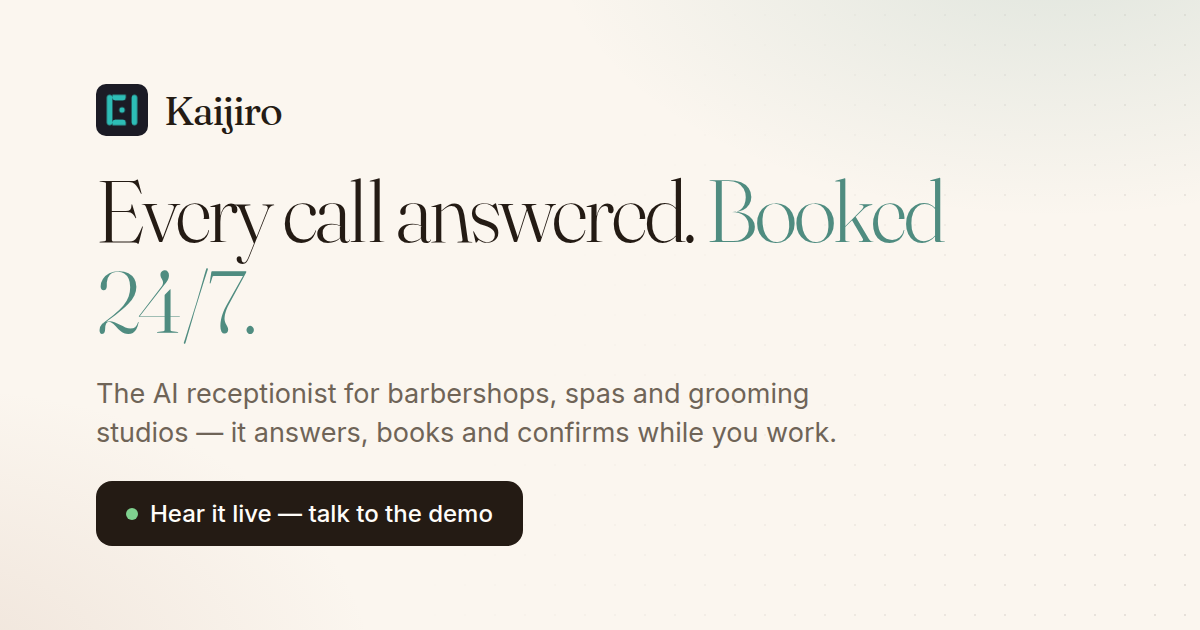
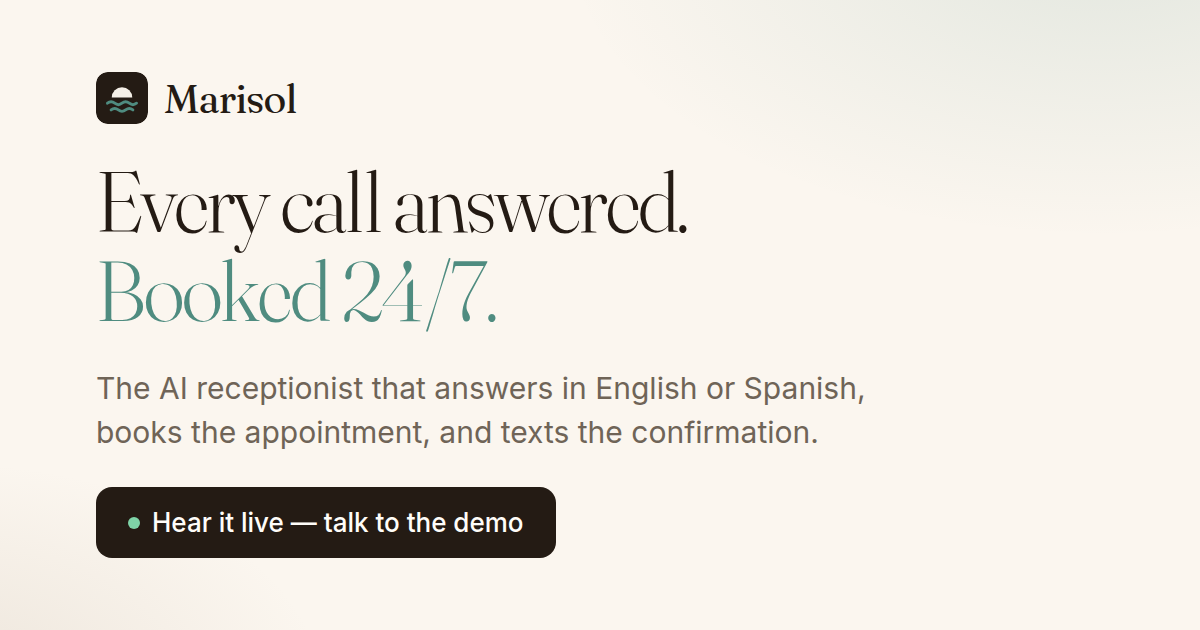
feat: rebrand landing to Marisol + callmarisol.com custom domain (#17)

diff --git a/app/terms/page.tsx b/app/terms/page.tsx
@@ -2,21 +2,21 @@ import { LegalShell } from "@/components/LegalShell";
 import { SALES_EMAIL } from "@/lib/site";
 
 export const metadata = {
-  title: "Terms of Service — Kaijiro",
-  description: "The terms that govern your Kaijiro subscription.",
+  title: "Terms of Service — Marisol",
+  description: "The terms that govern your Marisol subscription.",
 };
 
 export default function TermsPage() {
   return (
     <LegalShell title="Terms of Service" updated="July 3, 2026">
       <p>
-        These terms govern your use of the Kaijiro AI receptionist service provided by Kaijiro-labs
-        ("Kaijiro", "we"). By subscribing, you agree to them.
+        These terms govern your use of the Marisol AI receptionist service provided by Kaijiro Labs
+        ("Marisol", "we"). By subscribing, you agree to them.
       </p>
 
       <h2>The service</h2>
       <p>
-        Kaijiro answers your business phone line with a conversational AI receptionist that can take
+        Marisol answers your business phone line with a conversational AI receptionist that can take
         bookings, answer questions and hand off to a human when needed. We set the service up for
         you based on the details you provide during onboarding, and you stay responsible for keeping
         those details accurate.
@@ -24,14 +24,14 @@ export default function TermsPage() {
 
       <h2>Billing</h2>
       <p>
-        Kaijiro is a subscription billed through Stripe, monthly or annually depending on the plan
+        Marisol is a subscription billed through Stripe, monthly or annually depending on the plan
         you choose at checkout. Prices are shown on the pricing page before you pay. Subscriptions
         renew automatically until cancelled.
       </p>
 
       <h2>14-day money-back guarantee</h2>
       <p>
-        If Kaijiro is not right for you, tell us within 14 days of your first payment and we will
+        If Marisol is not right for you, tell us within 14 days of your first payment and we will
         refund it in full — no questions asked. Email{" "}
         <a href={`mailto:${SALES_EMAIL}`} className="text-teal">
           {SALES_EMAIL}

diff --git a/components/sections/Footer.tsx b/components/sections/Footer.tsx
@@ -8,11 +8,12 @@ export function Footer() {
         <div className="max-w-[34ch]">
           <div className="mb-[10px] flex items-center gap-[7px] font-display text-xl tracking-[-0.03em] sm:text-2xl">
             <LogoMark className="h-[22px] w-[22px] rounded-[4px]" />
-            Kaijiro-labs
+            Marisol
           </div>
           <p className="m-0 text-[13.5px] leading-[1.55] text-muted-2">
             The AI front desk for barbershops, spas, salons, grooming studios and many more.
           </p>
+          <p className="m-0 mt-2 text-[12.5px] text-muted-4">a Kaijiro Labs product</p>
           <a
             href={telHref}
             className="mt-[14px] inline-block font-display text-xl tracking-[-0.02em] text-ink no-underline"
@@ -63,7 +64,7 @@ export function Footer() {
 
       <div className="border-t border-cream-200">
         <div className="mx-auto flex max-w-content flex-wrap items-center justify-between gap-[10px] px-[22px] py-[18px] text-[12.5px] text-muted-4">
-          <span>© 2026 Kaijiro-labs. All rights reserved.</span>
+          <span>© 2026 Kaijiro Labs. All rights reserved.</span>
         </div>
       </div>
     </footer>

diff --git a/app/layout.tsx b/app/layout.tsx
@@ -2,9 +2,9 @@ import { SITE_URL } from "@/lib/site";
 import type { ReactNode } from "react";
 import "./globals.css";
 
-const TITLE = "Kaijiro — AI Receptionist";
+const TITLE = "Marisol — AI Receptionist";
 const DESCRIPTION =
-  "An AI receptionist for your business that answers every call and books appointments 24/7.";
+  "An AI receptionist that answers every call in English or Spanish and books appointments 24/7.";
 
 export const metadata = {
   title: TITLE,
@@ -15,9 +15,9 @@ export default function RootLayout({ children }: { children: ReactNode }) {
   return (
     <html lang="en">
       <head>
-        <link rel="icon" href="/logo.png" type="image/png" />
+        <link rel="icon" href="/logo.svg" type="image/svg+xml" />
         <meta property="og:type" content="website" />
-        <meta property="og:site_name" content="Kaijiro" />
+        <meta property="og:site_name" content="Marisol" />
         <meta property="og:title" content={TITLE} />
         <meta property="og:description" content={DESCRIPTION} />
         <meta property="og:url" content={SITE_URL} />

diff --git a/app/privacy/page.tsx b/app/privacy/page.tsx
@@ -2,16 +2,17 @@ import { LegalShell } from "@/components/LegalShell";
 import { SALES_EMAIL } from "@/lib/site";
 
 export const metadata = {
-  title: "Privacy Policy — Kaijiro",
-  description: "How Kaijiro collects, uses and protects your data.",
+  title: "Privacy Policy — Marisol",
+  description: "How Marisol collects, uses and protects your data.",
 };
 
 export default function PrivacyPage() {
   return (
     <LegalShell title="Privacy Policy" updated="July 3, 2026">
       <p>
-        This policy explains what data Kaijiro-labs ("Kaijiro", "we") collects when you use the
-        Kaijiro website and the Kaijiro AI receptionist service, and how we handle it.
+        This policy explains what data Kaijiro Labs ("Marisol", "we") collects when you use the
+        Marisol website and the Marisol AI receptionist service, and how we handle it. Marisol is a
+        Kaijiro Labs product.
       </p>
 
       <h2>What we collect</h2>

diff --git a/lib/site.ts b/lib/site.ts
@@ -2,11 +2,11 @@ export const DEMO_PHONE = process.env.NEXT_PUBLIC_DEMO_PHONE ?? "+1 (833) 659-69
 
 export const telHref = `tel:${DEMO_PHONE.replace(/[^0-9+]/g, "")}`;
 
-export const SALES_EMAIL = process.env.NEXT_PUBLIC_SALES_EMAIL ?? "sales@kaijiro-voice.ai";
+export const SALES_EMAIL = process.env.NEXT_PUBLIC_SALES_EMAIL ?? "sales@getmarisol.com";
 
-export const SALES_EMAIL_HREF = `mailto:${SALES_EMAIL}?subject=${encodeURIComponent("Question about Kaijiro")}`;
+export const SALES_EMAIL_HREF = `mailto:${SALES_EMAIL}?subject=${encodeURIComponent("Question about Marisol")}`;
 
-export const SITE_URL = "https://kaijiro-landing.patrykgniewek9.workers.dev";
+export const SITE_URL = "https://callmarisol.com";
 
 // No-code Stripe Customer Portal login link — filled in once enabled in the dashboard;
 // portal links render only when non-empty.

diff --git a/app/onboarding/page.tsx b/app/onboarding/page.tsx
@@ -2,7 +2,7 @@ import { LogoMark } from "@/components/Logo";
 import { OnboardingWizard } from "@/components/onboarding/OnboardingWizard";
 
 export const metadata = {
-  title: "Get started — Kaijiro",
+  title: "Get started — Marisol",
   description: "Tell us about your shop and we set up your AI receptionist for you.",
 };
 
@@ -16,7 +16,7 @@ export default function OnboardingPage() {
             className="flex items-center gap-[7px] font-display text-[22px] tracking-tight no-underline"
           >
             <LogoMark className="h-5 w-5 rounded-[3.5px]" />
-            Kaijiro
+            Marisol
           </a>
           <a href="/" className="text-sm text-muted no-underline">
             ← Back to site

diff --git a/lib/demoAgents.ts b/lib/demoAgents.ts
@@ -14,7 +14,7 @@ export const DEMO_AGENTS: DemoAgent[] = [
   {
     persona: "barbershop",
     label: "Barbershop",
-    shopLabel: "Kaijiro Barbershop",
+    shopLabel: "Barbarossa Barbershop",
     agentId: "agent_8301ks8brwmbedw8nv1sgnwwcdfw",
     shopId: "4d5815c1-c77a-43cc-8df4-1b0b7be6c896",
     calledNumber: "+18336596941",
@@ -26,7 +26,7 @@ export const DEMO_AGENTS: DemoAgent[] = [
   {
     persona: "grooming",
     label: "Pet grooming",
-    shopLabel: "Kaijiro Pet Spa",
+    shopLabel: "Pampered Paws Pet Grooming",
     agentId: "agent_2501ktmhtm2wf8789jqdtkbj7jdr",
     shopId: "da61e1fa-787a-4069-b3a6-246bd95144da",
     calledNumber: "+18788678115",

diff --git a/app/onboarding/thanks/page.tsx b/app/onboarding/thanks/page.tsx
@@ -11,7 +11,7 @@ import type { ReactNode } from "react";
 export const dynamic = "force-dynamic";
 
 export const metadata = {
-  title: "You're in — Kaijiro",
+  title: "You're in — Marisol",
   description: "Payment received — finish your setup and your AI receptionist goes live.",
 };
 
@@ -45,7 +45,7 @@ function Shell({ children }: { children: ReactNode }) {
             className="flex items-center gap-[7px] font-display text-[22px] tracking-tight no-underline"
           >
             <LogoMark className="h-5 w-5 rounded-[3.5px]" />
-            Kaijiro
+            Marisol
           </a>
         </div>
       </nav>

diff --git a/components/sections/Nav.tsx b/components/sections/Nav.tsx
@@ -30,8 +30,8 @@ export function Nav() {
           href="#top"
           className="flex items-center gap-[7px] whitespace-nowrap font-display text-[17px] font-medium tracking-tight no-underline sm:text-[19px] sm:font-normal"
         >
-          <LogoMark className="hidden h-5 w-5 shrink-0 rounded-[3.5px] sm:block" />
-          AI Receptionist
+          <LogoMark className="h-5 w-5 shrink-0 rounded-[3.5px]" />
+          Marisol
         </a>
 
         <div className="hidden items-center gap-8 text-sm text-muted md:flex">

diff --git a/components/sections/Faq.tsx b/components/sections/Faq.tsx
@@ -15,7 +15,7 @@ const FAQS = [
   },
   {
     q: "Do I keep my current phone number?",
-    a: "Yes. You forward your existing line to Kaijiro, so the number on your door, cards, and Google listing stays exactly the same.",
+    a: "Yes. You forward your existing line to Marisol, so the number on your door, cards, and Google listing stays exactly the same.",
   },
   {
     q: "How does it avoid double-booking?",

diff --git a/components/LegalShell.tsx b/components/LegalShell.tsx
@@ -15,7 +15,7 @@ export function LegalShell({
             className="flex items-center gap-[7px] font-display text-[22px] tracking-tight no-underline"
           >
             <LogoMark className="h-5 w-5 rounded-[3.5px]" />
-            Kaijiro
+            Marisol
           </a>
           <a href="/" className="text-sm text-muted no-underline">
             ← Back to site

diff --git a/components/onboarding/OnboardingWizard.tsx b/components/onboarding/OnboardingWizard.tsx
@@ -17,7 +17,7 @@ import { type Billing, PLAN_LABELS, PLAN_OPTIONS, PRICE, type Plan } from "@/lib
 import { track } from "@/lib/track";
 import { useEffect, useRef, useState } from "react";
 
-const STORAGE_KEY = "kaijiro-onboarding";
+const STORAGE_KEY = "marisol-onboarding";
 
 function validateBasics(basics: BusinessBasics): FieldErrors {
   const errors: FieldErrors = {};
